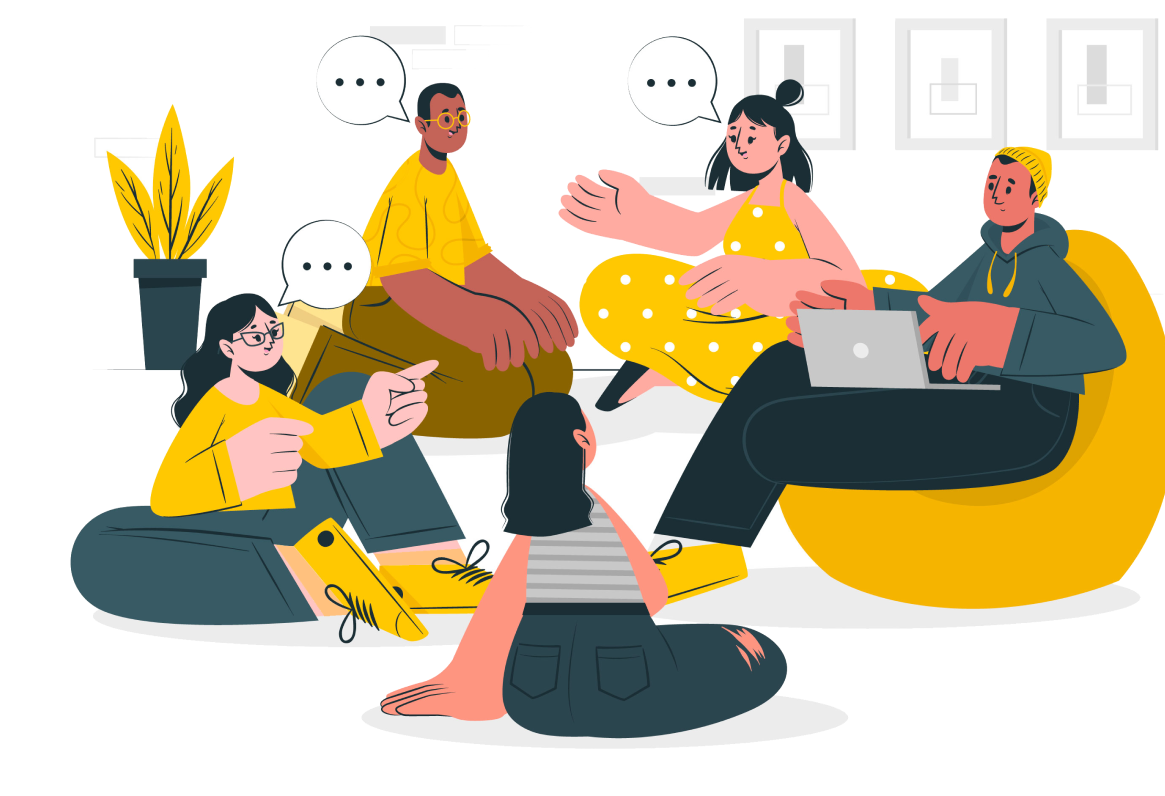
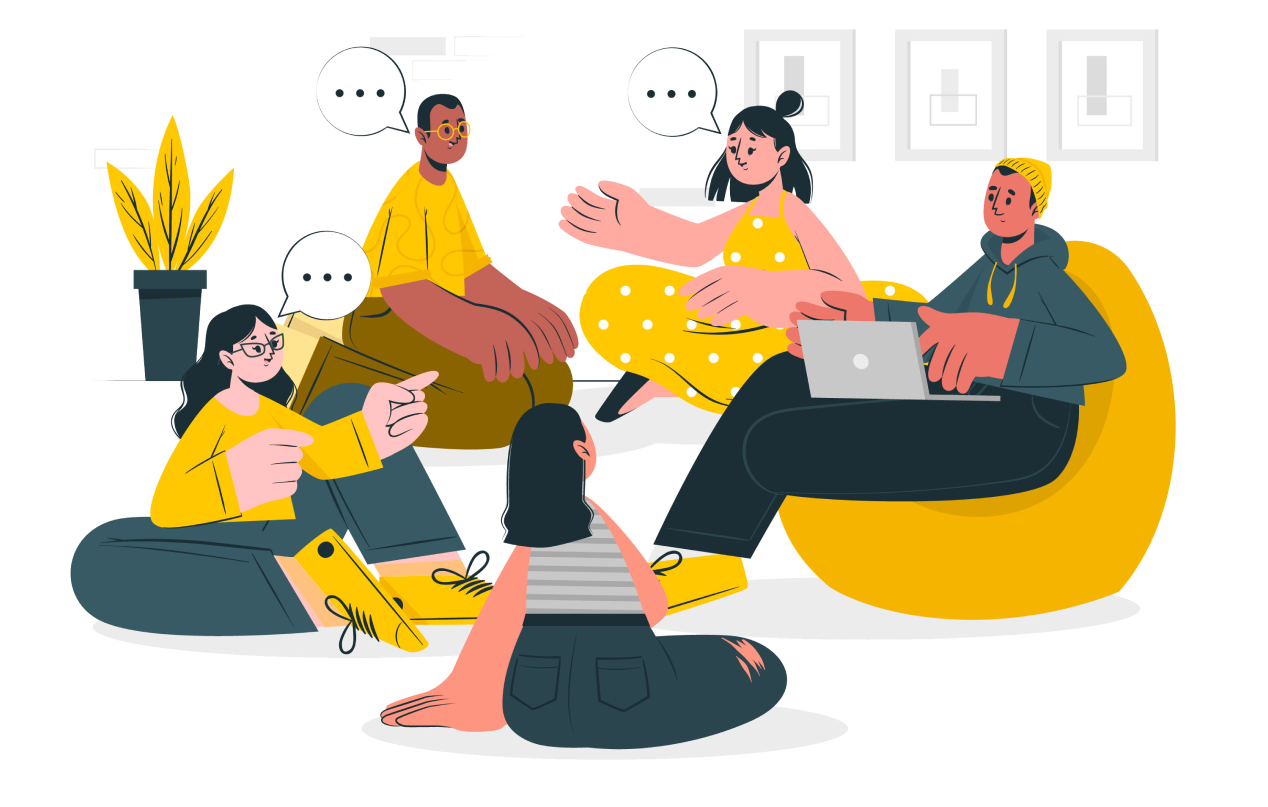
.

diff --git a/LandingPage.css b/LandingPage.css
@@ -19,9 +19,8 @@ body::-webkit-scrollbar-track {
 }
 
 .header-container {
-    max-width: 1920px;
-    max-height: 90px;
-    margin: 0 auto;
+    max-width: 100%;
+    max-height: 4.69%;
 }
 
 .align-container {
@@ -50,7 +49,7 @@ body::-webkit-scrollbar-track {
 
 .Webtitle h1 {
     font-family: 'Quicksand', sans-serif;
-    font-size: 50px;
+    font-size: 3.125rem;
     font-weight: 700; 
     color: #fff;
 }
@@ -69,7 +68,7 @@ body::-webkit-scrollbar-track {
     font-family: 'Poppins', sans-serif;
     text-decoration: none;
     color: #fff;
-    font-size: 16px;
+    font-size: 1rem;
     font-weight: 500;
 }
 
@@ -120,7 +119,7 @@ body::-webkit-scrollbar-track {
 .btn {
     color: #fff;
     font-family: 'Poppins', sans-serif;
-    font-size: 16px;
+    font-size: 1rem;
     margin-left: 20px;
     transition: background-color 0.3s ease;
 }
@@ -144,7 +143,7 @@ body::-webkit-scrollbar-track {
 
 .bg1 {
     width: 100%; 
-    height: 659px;
+    height: 34.32%;
     display: block;
 }
 
@@ -156,7 +155,7 @@ body::-webkit-scrollbar-track {
 /* Welcome text styles */
 .welcome-text {
     font-family: 'Quicksand', sans-serif;
-    font-size: 80px;
+    font-size: 5rem;
     font-weight: 500;
     color: #fff;
     margin-top: -600px;
@@ -166,7 +165,7 @@ body::-webkit-scrollbar-track {
 /* Upcycle! text styles */
 .upcycle-text {
     font-family: 'Quicksand', sans-serif;
-    font-size: 200px;
+    font-size: 12.5rem;
     font-weight: 700;
     color: #F06205;
     margin-top: -30px;
@@ -179,7 +178,7 @@ body::-webkit-scrollbar-track {
     height: 4.167%;
     margin-left: 15.57%;
     font-family: 'Poppins', sans-serif;
-    font-size: 35px;
+    font-size: 2.1875rem;
     font-weight: 400;
     color: #fff;
 }
@@ -195,7 +194,7 @@ body::-webkit-scrollbar-track {
     background-color: #F06205;
     color: #fff;
     font-family: 'Poppins', sans-serif;
-    font-size: 32px;
+    font-size: 2rem;
     font-weight: 500;
     border-radius: 5px;
     cursor: pointer;
@@ -217,7 +216,7 @@ body::-webkit-scrollbar-track {
 
 .bg2 {
     margin-top: -500px;
-    margin-left: -13.96%;
+    margin-left: -56%;
     width: 72.29%; 
     height: 48.13%;
 }
@@ -234,7 +233,7 @@ body::-webkit-scrollbar-track {
 
 .create-and {
     font-family: 'Poppins', sans-serif;
-    font-size: 120px;
+    font-size: 7.5rem;
     font-weight: 700;
     color: #00757E;
     text-shadow: 2px 2px 4px rgba(0, 0, 0, 0.5);
@@ -243,7 +242,7 @@ body::-webkit-scrollbar-track {
 /* Upcycle description styles */
 .through-well {
     font-family: 'Poppins', sans-serif;
-    font-size: 36px;
+    font-size: 2.25rem;
     font-weight: 400;
     color: #0000;
 }

diff --git a/LandingPage.html b/LandingPage.html
@@ -74,7 +74,9 @@
             </h2>
             <a href="signin.html" class="btn btn-signin3">Sign In </a>
         </div>
-
+        
+        <img class="c2" src="src/c2.png">
+        <img class="bg3" sizes="src/bg3.png">
 
         <h2 class="engage-in">
             Engage in Discussion
